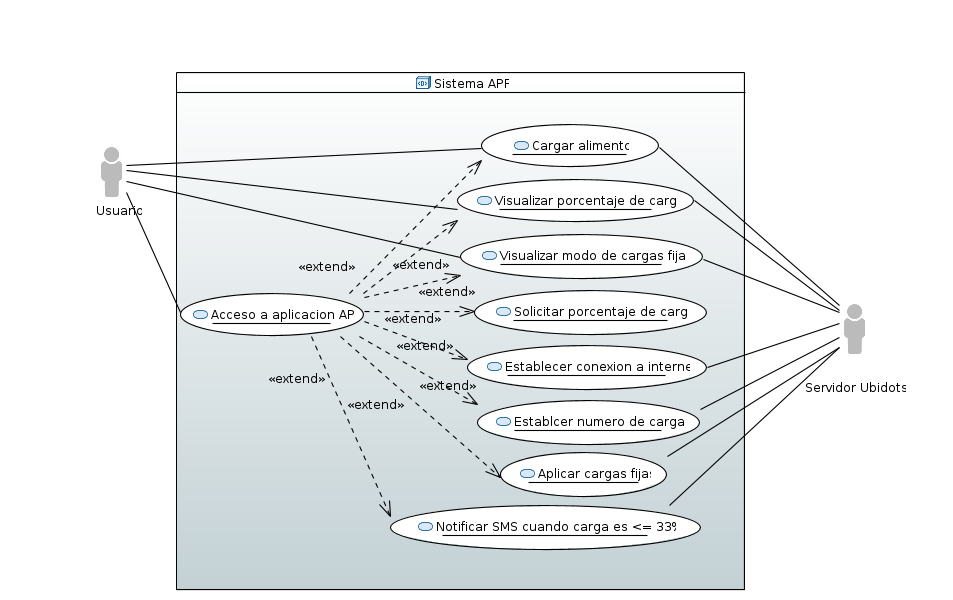
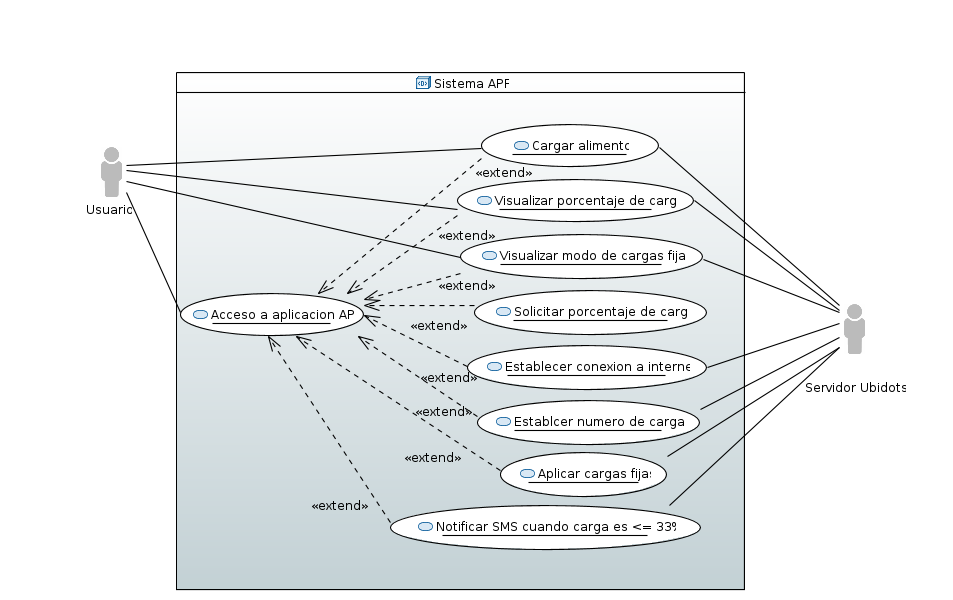
Agrego nuevas funcionlidades con adaptacion de codigos y modificacion de diagramas SysML

diff --git a/Interfaz_usuario/TPFinal_interfaz.py b/Interfaz_usuario/TPFinal_interfaz.py
@@ -8,22 +8,11 @@ import serial
 from ubidots import ApiClient
 from time import sleep
 
-# Excepcion para verificar si se conecto correctamente con la API de ubidots
-try:
-	print("Conectando a API Ubidots")
-	api = ApiClient(token="A1E-kzn1qv9m8IDl8HveHrQyYKqzhEpDF3")
-	variable = api.get_variable("5a4dba34c03f9774e0a8dd57")
-	porcentaje_alimento = api.get_variable("5a60647bc03f9707bd47f11d")
-	mostrar = api.get_variable("5a611773c03f97436c5ee58e")
-	print("Conexion exitosa!!!")
-except:
-	print("FALLO LA CONEXION API")
-
-
 #arduino = serial.Serial('/dev/ttyACM0', 9600)
 arduino = serial.Serial('/dev/ttyUSB0', 9600) 
 comando="1"
 pulsador=0
+contador_op1=1
 
 while (comando!='3'):
 	try:
@@ -37,28 +26,117 @@ while (comando!='3'):
 		if comando == '1':
 			print('MODO LOCAL HABILITADO')
 			comando2="1"
-			while (comando2!='4'):
+			while (comando2!='7'):
 				print("\n--- Interfaz Pet Feeder: MODO LOCAL ---")
 				print(" MENU DE OPCIONES:")
 				print(" 1- Cargar alimento.")
 				print(" 2- Ver porcentaje de alimento.")
-				print(" 3- Salir del modo local.")
-				print(" 4- Salir de aplicacion.")
+				print(" 3- Incrementar angulo de posicion de carga.")
+				print(" 4- Decrementar angulo de posicion de carga.")
+				print(" 5- Modificar numero de cargas.")
+				print(" 6- Salir del modo local.")
+				print(" 7- Salir de aplicacion.")
 				print("---------------------------------------\n")
 				comando2 = raw_input('Ingrese una opcion: ') #Input
 				if comando2 == '1':
-					print('Enviando por puerto serial. Datos: '+comando2)
-					arduino.write(comando2) # Mando dato hacia Arduino
+					contador_op1_temp=contador_op1
+					while(contador_op1_temp>0):
+						print('Enviando por puerto serial. Datos: '+comando2)
+						arduino.write(comando2) # Mando dato hacia Arduino
+						contador_op1_temp=contador_op1_temp-1
+						sleep(0.8)
 				elif comando2 == '2':
 					print('Enviando por puerto serial. Datos: '+comando2)
 					arduino.write(comando2) # Mando dato hacia Arduino
 					recepcion_arduino=arduino.readline() # Espero recpcion de arduino
 					print('Arduino-Uno:~$ El nivel de alimento es: '+recepcion_arduino)
-					aux = int(recepcion_arduino) # convierto cadena a entero
-					new_value = porcentaje_alimento.save_value({'value': aux})
+					#aux = int(recepcion_arduino) # convierto cadena a entero # Saco lineas pq no son del modo remoto
+					#new_value = porcentaje_alimento.save_value({'value': aux}) # Saco lineas pq no son del modo remoto
 				elif comando2 == '3':
-					break
+					continuar_op3="1"
+					while (continuar_op3=='1'):
+						print('Enviando por puerto serial. Datos: '+comando2)
+						arduino.write(comando2) # Mando dato hacia Arduino
+						recepcion_arduino2=arduino.readline() # Espero recpcion de arduino
+						aux = int(recepcion_arduino2) # convierto cadena a entero
+						if aux==1:
+							print('Arduino-Uno-Config:~$ Ingrese un valor de angulo multiplo de 10')
+							valor_angulo = raw_input(' Valor de angulo: ') #Input
+							angulo_int = int(valor_angulo) # convierto cadena a entero
+							angulo_int = angulo_int/10;
+							if(angulo_int>9): # ya que giro maximo es de 180
+								angulo_int=9;
+							
+							if(angulo_int<1):
+								angulo_int=1;
+
+							if((angulo_int <=9) and (angulo_int>0)):
+								contador_op3 = angulo_int;
+								while contador_op3>0:
+									arduino.write("i") # Mando dato hacia Arduino
+									contador_op3= contador_op3-1;
+									sleep(0.5)
+
+							else:
+								print('Valor incorrecto')
+
+
+						else:
+							print('Arduino-Uno-Config:~$ Fallo peticion de incremento/decremento de angulo, recepcion: '+aux)
+						continuar_op3 = raw_input('Continuar posicionando? Ingrese 1 para continuar, o 0 para salir: ') #Input
+
 				elif comando2 == '4':
+					continuar_op4="1"
+					while (continuar_op4=='1'):
+						print('Enviando por puerto serial. Datos: 3')
+						arduino.write("3") # Mando dato hacia Arduino
+						recepcion_arduino2=arduino.readline() # Espero recpcion de arduino
+						aux = int(recepcion_arduino2) # convierto cadena a entero
+						if aux==1:
+							print('Arduino-Uno-Config:~$ Ingrese un valor de angulo multiplo de 10')
+							valor_angulo = raw_input(' Valor de angulo: ') #Input
+							angulo_int = int(valor_angulo) # convierto cadena a entero
+							angulo_int = angulo_int/10;
+							if(angulo_int>18): # ya que giro maximo es de 180
+								angulo_int=18;
+							
+							if(angulo_int<1):
+								angulo_int=1;
+
+							if((angulo_int <=18) and (angulo_int>0)):
+								contador_op4 = angulo_int;
+								while contador_op4>0:
+									arduino.write("d") # Mando dato hacia Arduino
+									contador_op4= contador_op4-1;
+									sleep(0.5)
+
+							else:
+								print('Valor incorrecto')
+
+
+						else:
+							print('Arduino-Uno-Config:~$ Fallo peticion de incremento/decremento de angulo, recepcion: '+aux)
+						continuar_op4 = raw_input('Continuar posicionando? Ingrese 1 para continuar, o 0 para salir: ') #Input
+				
+				elif comando2 == '5':
+					print('Arduino-Uno-Config:~$ Ingrese el numero de cargas que desea establecer.')
+					contador_op1_char = raw_input(' Numero de cargas: ') #Input
+					contador_op1 = int(contador_op1_char) # convierto cadena a entero
+					if(contador_op1 > 10):
+						contador_op1=10
+						print('Arduino-Uno-Config:~$ El maximo valor es 10. El mismo se a configurado.')
+					elif(contador_op1<1):
+						contador_op1=1
+						print('Arduino-Uno-Config:~$ El minimo valor es 1. El mismo se a configurado.')
+					elif((contador_op1>0) and (contador_op1<=10)):
+						print('Arduino-Uno-Config:~$ Numero de carga configurado a '+contador_op1_char)
+					else:
+						print('Arduino-Uno-Config:~$ El valor ingresado no es admitido')
+
+
+				elif comando2 == '6':
+					break
+				elif comando2 == '7':
 					print "\nCerrando aplicacion...."
 					arduino.close() # Finalizamos la comunicacion UART
 					sys.exit()
@@ -69,6 +147,18 @@ while (comando!='3'):
 					print('Intente nuevamente.')
 
 		elif comando == '2': # Analisis de variable API Ubidots cada 1 segundo
+
+			# Excepcion para verificar si se conecto correctamente con la API de ubidots
+			try:
+				print("Conectando a API Ubidots")
+				api = ApiClient(token="A1E-kzn1qv9m8IDl8HveHrQyYKqzhEpDF3")
+				variable = api.get_variable("5a4dba34c03f9774e0a8dd57")
+				porcentaje_alimento = api.get_variable("5a60647bc03f9707bd47f11d")
+				mostrar = api.get_variable("5a611773c03f97436c5ee58e")
+				print("Conexion exitosa!!!")
+			except:
+				print("FALLO LA CONEXION API")
+			
 			print('MODO REMOTO HABILITADO')
 			print("\n--- Pet Feeder en MODO REMOTO ---")
 			print(" Analizando variables desde API UBIDOTS")
